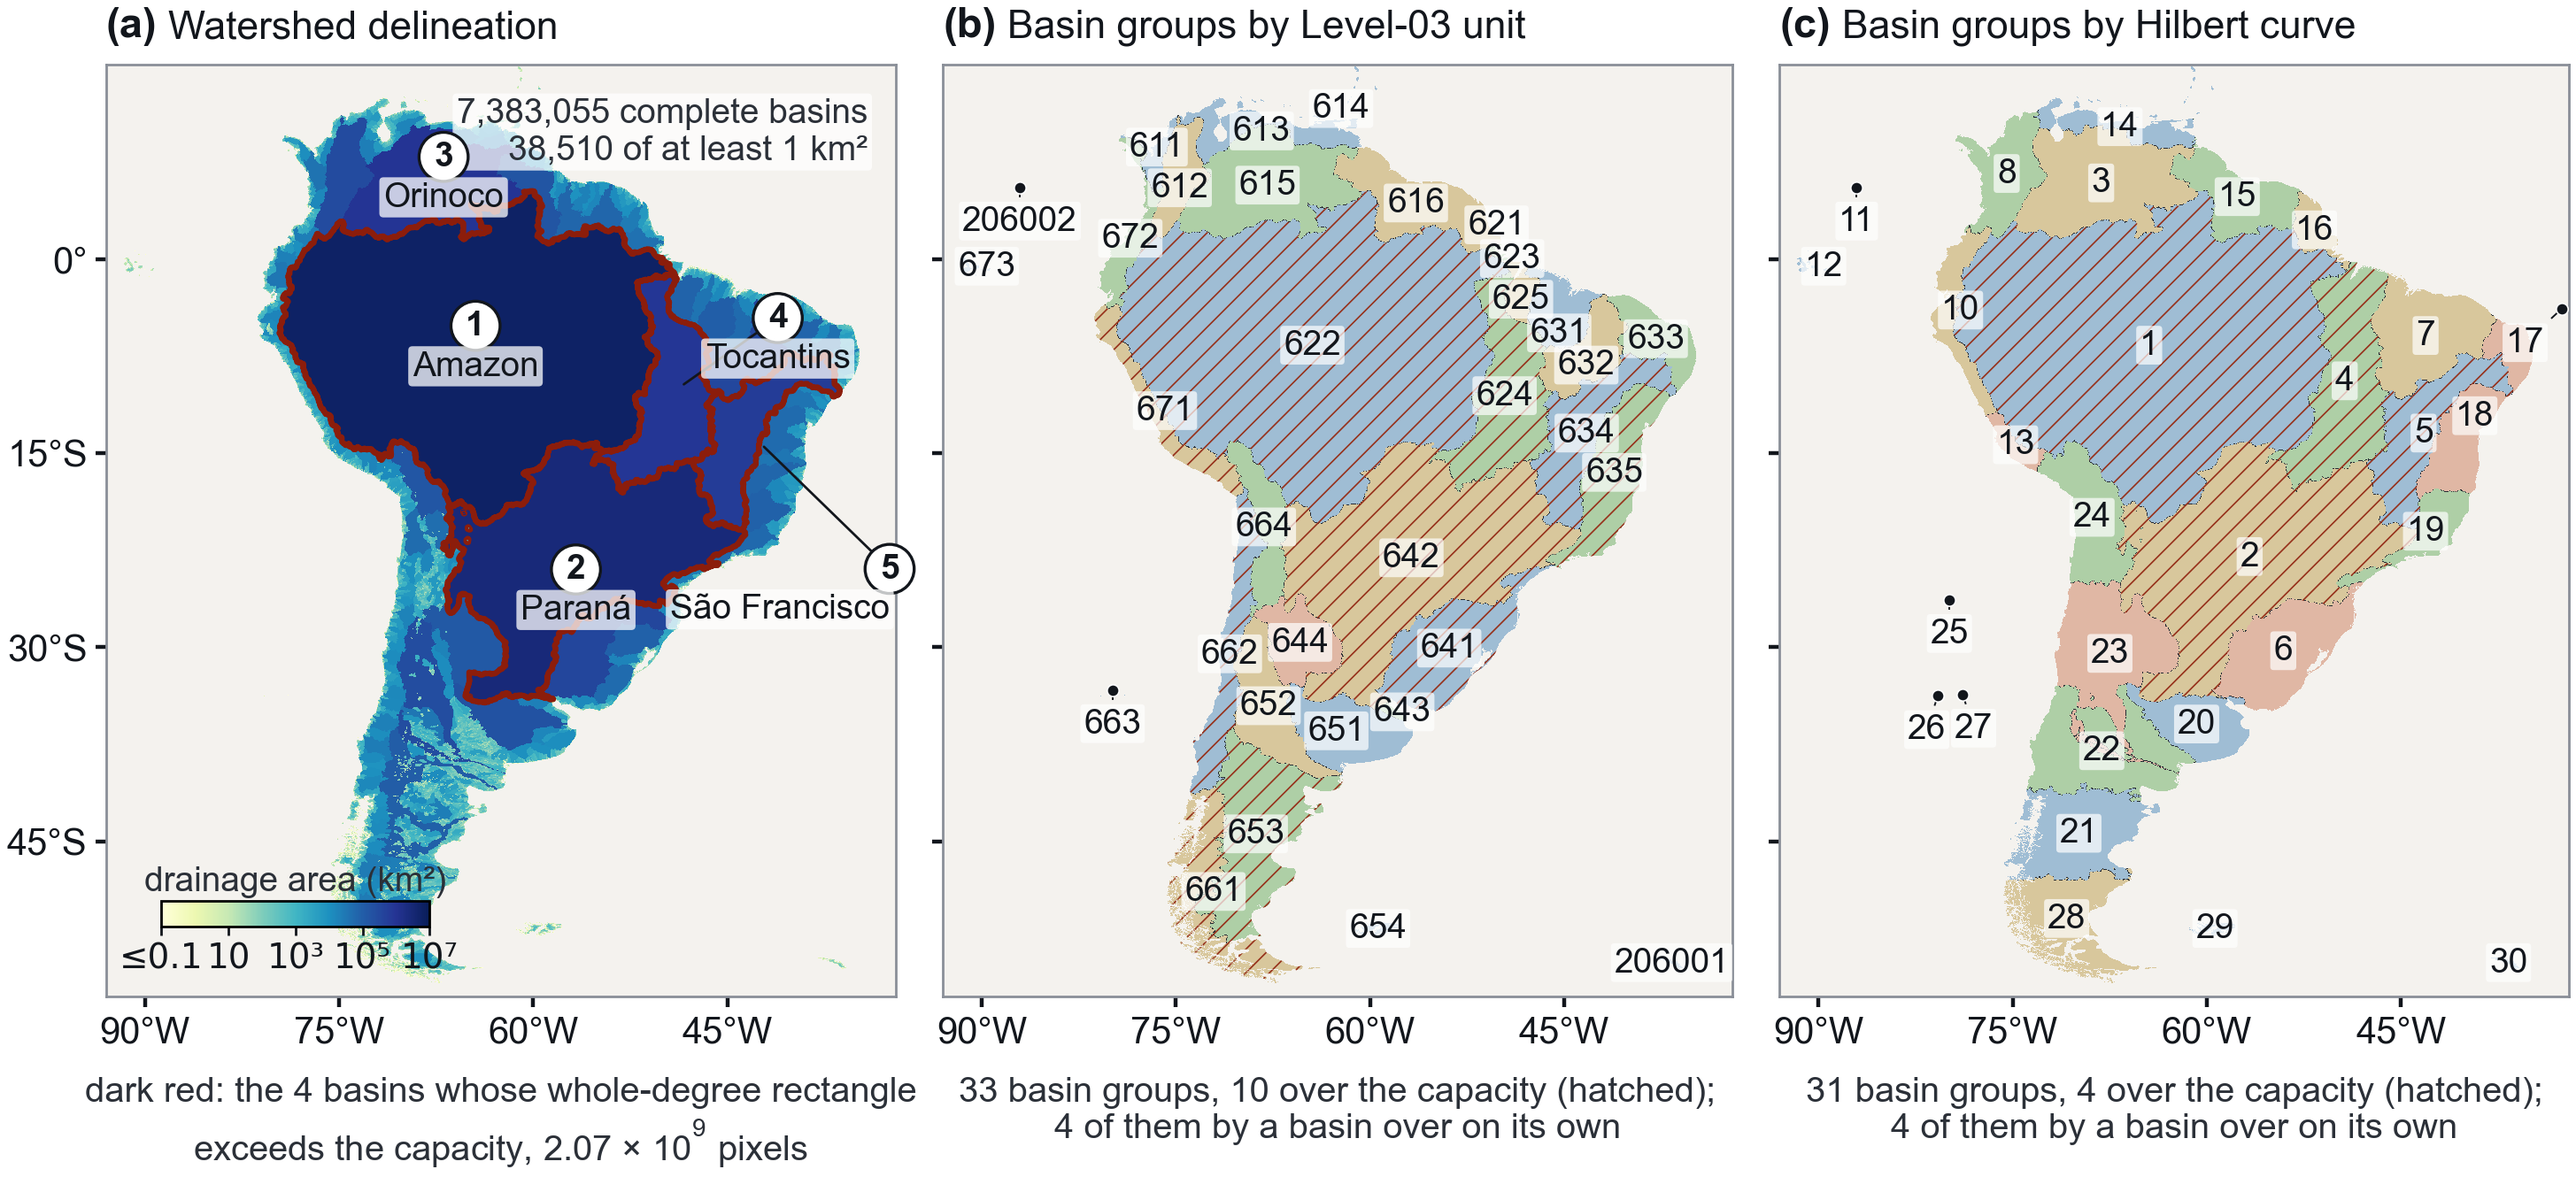
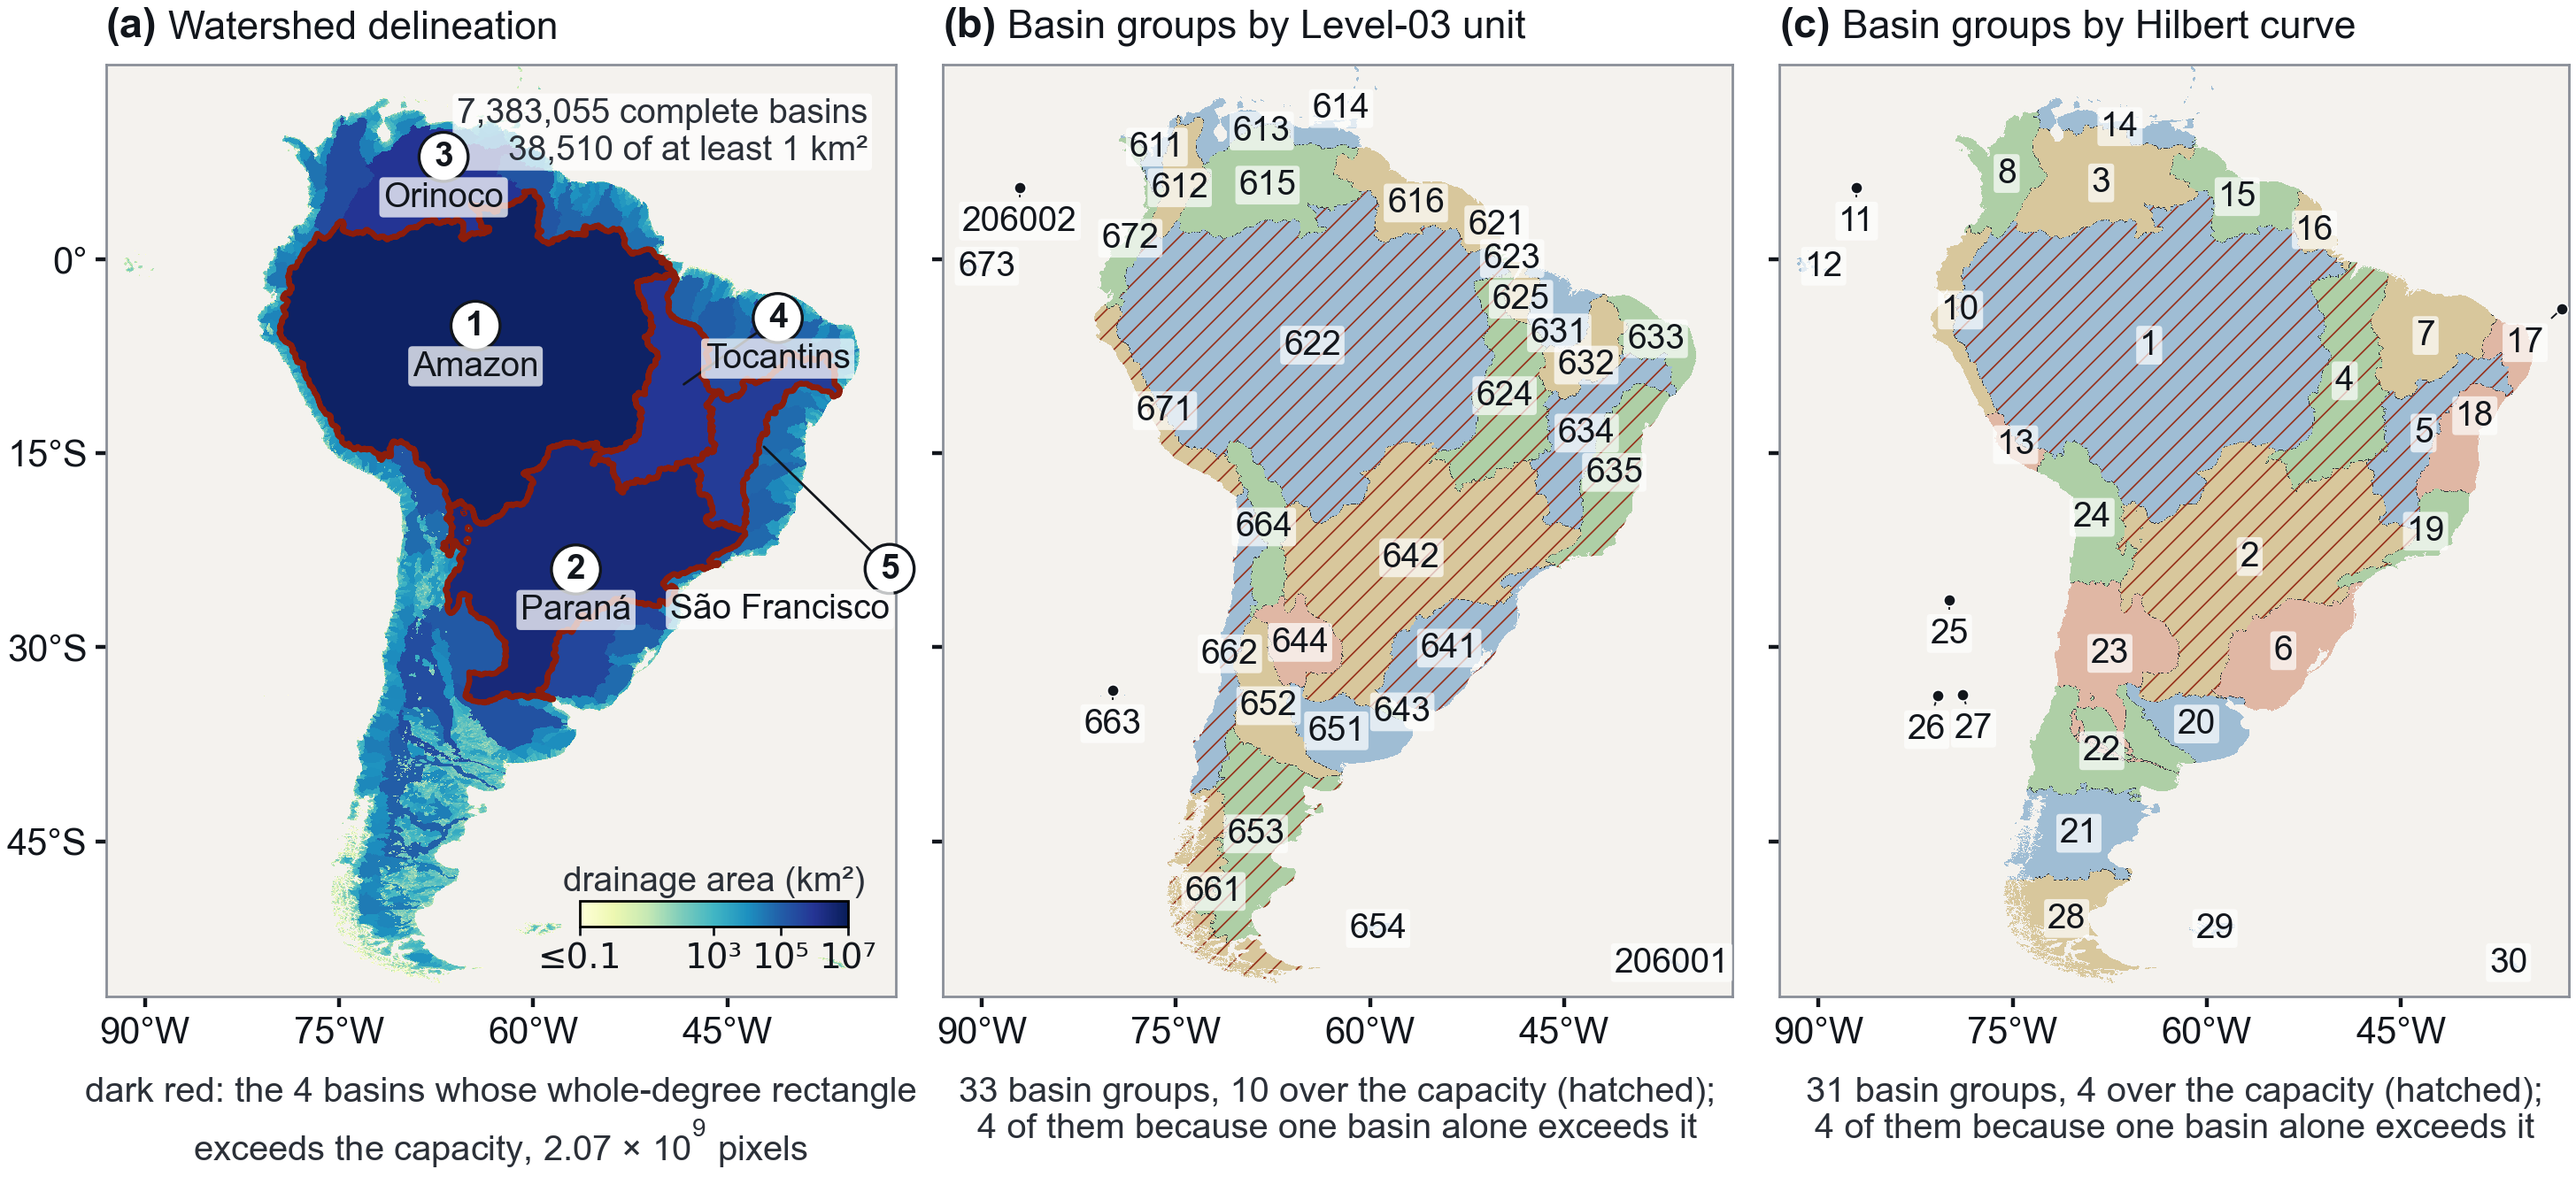
paper: clearer wording in Figs. 3, 7, 8, A.5 and A.6
Fig. 3: the colour bar moved onto the open sea, its ticks thinned, and the groups over the capacity because of one
basin said plainly. Fig. 7: a note reworded. Fig. 8: HydroSHEDS v2.0 as in the text, the HydroBASINS units named
instead of their file, no variable name in the notes. Fig. A.5: the colour bars end in >=6000 and >=400 km. Fig.
A.6: panel (f) says 1 is the main stem. No number changes; the package does not change.

diff --git a/paper/scripts/fig_08_package_run.py b/paper/scripts/fig_08_package_run.py
@@ -1,6 +1,6 @@
 """Figure 8: the Python package at work.
     (a) one run as a reader types it, from the page the package prints at the start of a run;
-    (b) the Mississippi (North America, HydroSHEDS v2 at 1 arc-second) cut into regions of 160 deg2;
+    (b) the Mississippi (North America, HydroSHEDS v2.0 at 1 arc-second) cut into regions of 160 deg2;
     (c) the hours of the three stages on the three grids.
 Reads from data/ the files written by data_08_package_run.py, the grid sizes of (c) included;
 writes fig_08_package_run.png into ../figures.
@@ -33,7 +33,7 @@ from fd1_partition import read_table
 
 FIGURE_DIRECTORY = paths.FIGURE_DIRECTORY
 DATA = paths.DATA_DIRECTORY
-DATASETS = [("south-america", "South America\nHydroSHEDS v2, 30 m"), ("north-america", "North America\nHydroSHEDS v2, 30 m"), ("merit-global", "The globe\nMERIT Hydro, 90 m")]
+DATASETS = [("south-america", "South America\nHydroSHEDS v2.0, 30 m"), ("north-america", "North America\nHydroSHEDS v2.0, 30 m"), ("merit-global", "The globe\nMERIT Hydro, 90 m")]
 
 
 def grid_size_label(dataset):
@@ -133,10 +133,11 @@ def strip_lines(dataset):
     out.append(("option", "    --acc <upstream pixel count> \\", "read, not computed; the area is the grid's own"))
     out.append(("option", "    --steps fd1,fd2,fd3 \\", "the partition, the views, the attributes"))
     out.append(("option", "    --attributes %s \\" % ",".join(codes), "the six, on the largest capacity, %s" % names[0]))
-    out.append(("option", "    --keep bsn,rgn,pieces \\", "the partition kept; the channel mask str is not"))
+    out.append(("option", "    --keep bsn,rgn,pieces \\", "the partition kept; the channel mask is not"))
     out.append(("option", "    --out-root <directory>", "the products go under <directory>/%s/" % dataset))
     out.append(("option", "  # set by the built-in grid:", ""))
-    out.append(("option", "  #   convention %s; groups" % convention, "units of whole basins: %s" % (layers[0] if len(layers) == 1 else re.sub(r"_[a-z]{2}_", "_*_", layers[0]))))
+    out.append(("option", "  #   convention %s; groups" % convention, ("HydroBASINS Level-03 units, of whole basins" if all(re.match(r"hybas_.*lev03", layer) for layer in layers)
+                                                                          else "units of whole basins: %s" % layers[0])))
     out.append(("option", "  #   capacities %s" % ",".join("%s:%s" % (n, d) for n, d in zip(names, depths)), "%s deg²; the cut %s deep" % (", ".join(degrees), ", ".join(depths))))
     out.append(("option", "  #   channel threshold", "%s km²" % km2))
     widest_text = max(len(text) for kind, text, note in out)

diff --git a/paper/scripts/fig_03_regions_south_america.py b/paper/scripts/fig_03_regions_south_america.py
@@ -194,10 +194,10 @@ def draw_basin_panel(axis, basin_raster, title_text, label_letter, over_the_cap_
         axis.text(at[0], at[1] - 1.9, GREAT_RIVER_NAME[basin_id], fontsize=style.SIZE_LABEL,
                   ha=OVER_CAP_NAME_ALIGN.get(basin_id, "center"), va="top", color="#12161c", zorder=6,
                   bbox=dict(boxstyle="round,pad=0.12", facecolor="white", edgecolor="none", alpha=0.75))
-    # colour bar in the empty ocean at the lower left
-    bar_axis = axis.inset_axes([0.07, 0.075, 0.34, 0.028])
-    colour_bar = axis.figure.colorbar(image, cax=bar_axis, orientation="horizontal", ticks=[-1, 1, 3, 5, 7])
-    colour_bar.ax.set_xticklabels(["\u22640.1", "10", "10\u00b3", "10\u2075", "10\u2077"],
+    # colour bar in the empty ocean at the lower right
+    bar_axis = axis.inset_axes([0.60, 0.075, 0.34, 0.028])
+    colour_bar = axis.figure.colorbar(image, cax=bar_axis, orientation="horizontal", ticks=[-1, 3, 5, 7])
+    colour_bar.ax.set_xticklabels(["\u22640.1", "10\u00b3", "10\u2075", "10\u2077"],
                                   fontfamily="DejaVu Sans")
     colour_bar.ax.tick_params(labelsize=style.SIZE_LABEL, length=1.8, pad=1.2, width=0.5)
     colour_bar.outline.set_linewidth(0.5)
@@ -446,7 +446,7 @@ def main():
                                             if basin_id < len(lookup))
         forced = sum(1 for region_id, values in region_table.items()
                      if values[1] > CAP_PIXELS and region_id in regions_of_an_oversized_basin)
-        style.panel_foot(axis, "%d basin groups, %d over the capacity (hatched);\n%d of them by a basin over on its own"
+        style.panel_foot(axis, "%d basin groups, %d over the capacity (hatched);\n%d of them because one basin alone exceeds it"
                          % (len(region_table), over_the_cap_in_table, forced), y=stats_offset)
         axis.set_xlim(VIEW_LON_MIN, VIEW_LON_MAX)
         axis.set_ylim(VIEW_LAT_MIN, VIEW_LAT_MAX)

diff --git a/paper/scripts/fig_a5_length_attributes.py b/paper/scripts/fig_a5_length_attributes.py
@@ -129,7 +129,7 @@ def main():
 
     image = axes[0].imshow(ldn_km, cmap=colour_map, vmin=0, vmax=6000, extent=MOSAIC, interpolation="nearest",
                            origin="upper")
-    colour_bar(axes[0], image, "distance to the outlet (km)", [0, 3000, 6000], ["0", "3000", "6000"])
+    colour_bar(axes[0], image, "distance to the outlet (km)", [0, 3000, 6000], ["0", "3000", "\u22656000"])
     style.panel_heading(axes[0], "(a)", "Distance to the outlet")
     longest_km = max(path["properties"]["longest_flow_path_m"] for path in paths) / 1000.0
     style.panel_foot(axes[0], "along the flow path, up to {:,.0f} km".format(round(longest_km, -2)), y=-0.31)
@@ -138,7 +138,7 @@ def main():
     terrain.set_bad(OCEAN)
     image = axes[1].imshow(lup_km, cmap=terrain, vmin=low, vmax=high, extent=MOSAIC, interpolation="nearest",
                            origin="upper")
-    colour_bar(axes[1], image, "upstream flow length (km)", [0, 200, 400], ["0", "200", "400"])
+    colour_bar(axes[1], image, "upstream flow length (km)", [0, 200, 400], ["0", "200", "\u2265400"])
     style.panel_heading(axes[1], "(b)", "Upstream flow length")
     style.panel_foot(axes[1], "longest path from a divide to the pixel", y=-0.31)
     print("LUP colour range %.1f to %.1f km" % (low, high))

diff --git a/paper/scripts/fig_a6_stream_orders.py b/paper/scripts/fig_a6_stream_orders.py
@@ -209,7 +209,7 @@ def main():
         outlet["basin_area_km2"], format(len(basin_segments), ","),
         int(basin["strahler_order"].max())), y=-0.065)
     style.panel_foot(axes[1, 1], "%s channel heads" % format(int(basin["shreve_magnitude"].max()), ","), y=-0.065)
-    style.panel_foot(axes[1, 2], "largest order %d" % int(basin["hack_order"].max()), y=-0.065)
+    style.panel_foot(axes[1, 2], "1 = the main stem", y=-0.065)
 
     colour_bar(axes[1, 0], ScalarMappable(norm=basin_strahler_norm, cmap=basin_strahler_map), "Strahler order",
                list(range(1, top_strahler + 1)), [str(t) for t in range(1, top_strahler + 1)])

diff --git a/paper/scripts/fig_07_external_tools.py b/paper/scripts/fig_07_external_tools.py
@@ -168,7 +168,7 @@ WHY_NOT = {
     ("whitebox", "ldn"): "map units (degrees) only, no metres",
     ("cho", "lup"): "map units (degrees) only, no metres",
     ("pyflwdir", "lup"): "no upstream flow length in the library",
-    ("whitebox", "lup"): "its only one takes elevation, not flow directions",
+    ("whitebox", "lup"): "its only tool for this takes elevation, not flow directions",
     ("cho", "ldn"): "no distance to the outlet among the add-ons",
     ("cho", "ord"): "no stream order among the add-ons",
     ("grass", "upa"): "r.stream.* has no accumulation; r.watershed takes elevation",
